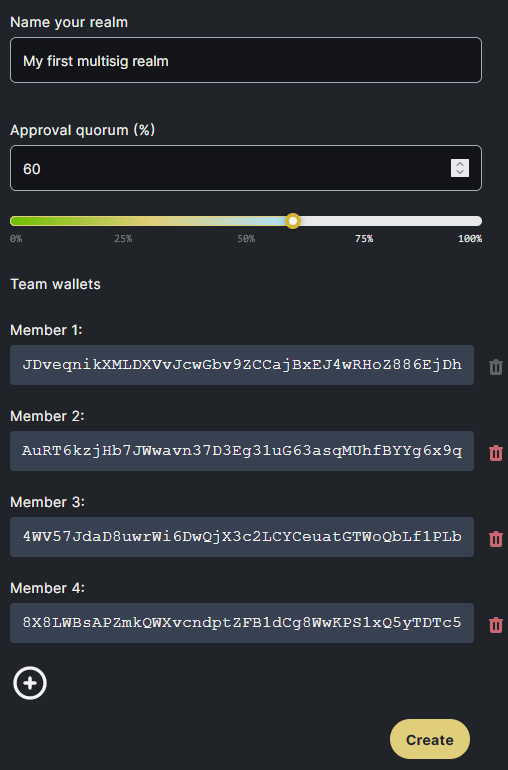
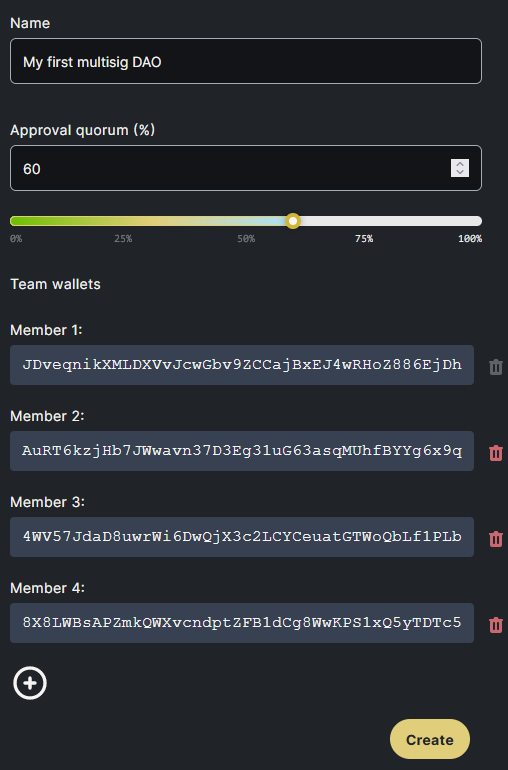
Updated images and texts to the new bespoke wizard (#9)
* fix: updated images and texts to the new bespoke wizard

* fix: docusaurus github references

Changed region(s): [[0.0295, 0.0, 0.3248, 0.0935]]

diff --git a/docusaurus.config.js b/docusaurus.config.js
@@ -6,15 +6,15 @@ const darkCodeTheme = require("prism-react-renderer/themes/dracula");
 
 /** @type {import('@docusaurus/types').Config} */
 const config = {
-  title: "My Site",
-  tagline: "Dinosaurs are cool",
-  url: "https://your-docusaurus-test-site.com",
+  title: "Solana Governance UI Docs",
+  tagline: "Solana GOvernance UI Documentation",
+  url: "https://docs.realms.today",
   baseUrl: "/",
   onBrokenLinks: "throw",
   onBrokenMarkdownLinks: "warn",
   favicon: "img/favicon.ico",
-  organizationName: "facebook", // Usually your GitHub org/user name.
-  projectName: "docusaurus", // Usually your repo name.
+  organizationName: "Solana-labs", // Usually your GitHub org/user name.
+  projectName: "governance-docs", // Usually your repo name.
 
   presets: [
     [
@@ -25,7 +25,7 @@ const config = {
           sidebarPath: require.resolve("./sidebars.js"),
           routeBasePath: "/",
           editUrl:
-            "https://github.com/solana-labs/governance-ui/edit/main/docs/",
+            "https://github.com/solana-labs/governance-docs/tree/master",
         },
         theme: {
           customCss: require.resolve("./src/css/custom.css"),
@@ -51,7 +51,7 @@ const config = {
             label: "Tutorial",
           },
           {
-            href: "https://github.com/solana-labs/governance-ui",
+            href: "https://github.com/solana-labs/governance-docs/",
             label: "GitHub",
             position: "right",
           },

diff --git a/docs/multisig-DAO/create-multisig-DAO/bespoke-DAO.md b/docs/multisig-DAO/create-multisig-DAO/bespoke-DAO.md
@@ -23,10 +23,13 @@ In the first step, you'll need to fill the basic configuration for your DAO
 ![multisigbespoke](/img/multisig-DAO/multisig-bespoke-empty.png)
 
 1. **Name your DAO:** Choose the name for your DAO but bear in mind that if you choose a name that already exists, the transaction will fail.
-2. **Place the `Community Token Mint`** and note that some more fields will appear in the screen.
 
-   1. **Min community tokens to create governance:** this field represents that to create a governance, there should be at least `N%` of the max supply of the tokens minted, being 1% the default value.
-   2. **Community mint supply factor:** the max vote weight of the community token. If it is set to 1 then total supply of the community governance token equals to 100% vote.
+2. **Place the `Community Token Mint`** if you have one, and if not, it will be generated for you. The community token mint is the token that will be used by the community to vote on proposals and it is required to create a governance.
+    1. When you put the community token mint, a switch `Transfer Authority` will show up. If checked, it will transfer the authority of the community token to the realm.
+
+3. **Min community tokens to create governance:** this field represents that to create a governance, there should be at least `N%` of the max supply of the tokens minted, being 1% the default value for tokens with supply bigger than 0. If the supply is 0, then this value will be set to `1000000` by default.
+
+4. **Community mint supply factor:** the max vote weight of the community token. If it is set to 1 then total supply of the community governance token equals to 100% vote. This value can vary from `0.0000000001` to `1`.
 
 :::tip
 If you don't fill this field, the community token will be generated by the app
@@ -34,7 +37,7 @@ If you don't fill this field, the community token will be generated by the app
 
 ![multisigbespokecomm](/img/multisig-DAO/multisig-bespoke-community.png)
 
-4.**The `Governance Program Id`** field represents the Governance Program of the organization. If a DAO wants full control of their DAOs, they should deploy their own governance program. But to facilitate, Solana provides a default Governance program ID `GovER5Lthms3bLBqWub97yVrMmEogzX7xNjdXpPPCVZw` so, if you don't want to deploy a governance program now, it is possible to use this instance.
+5.**The `Governance Program Id`** field represents the Governance Program of the organization. If a DAO wants full control of their DAOs, they should deploy their own governance program. But to facilitate, Solana provides a default Governance program ID `GovER5Lthms3bLBqWub97yVrMmEogzX7xNjdXpPPCVZw` so, if you don't want to deploy a governance program now, it is possible to use this instance.
 
 :::tip
 Checking `Use Test Instance` will change the program id to `GTesTBiEWE32WHXXE2S4XbZvA5CrEc4xs6ZgRe895dP` and run in a test program instead of the main program id. This is recommended if you are deploying a testing DAO.
@@ -42,11 +45,11 @@ Checking `Use Test Instance` will change the program id to `GTesTBiEWE32WHXXE2S4
 
 ![multisigbespokegov](/img/multisig-DAO/multisig-bespoke-govtoken.png)
 
-5. **Lastly, the `Governance program version`** that represents the version of the governance program. If you're using the default instance then at the time of writing the version of the deployed program is 1.
+6. **Lastly, the `Governance program version`** that represents the version of the governance program. If you're using the default instance then at the time of writing the version of the deployed program is 1.
 
 ![multisigbespokeversion](/img/multisig-DAO/multisig-bespoke-programversion.png)
 
-6. **Click next to proceed to the [next step](#step-2)**.
+7. **Click next to proceed to the [next step](#step-2-the-council)**.
 
 ---
 
@@ -62,15 +65,14 @@ This step is optional, you don't need council mint to create a bespoke DAO but i
 
 ![multisigbespokecomm](/img/multisig-DAO/multisig-bespoke-council.png)
 
-2. **Click next to proceed to the [next step](#step-3)**.
+2. **Click next to proceed to the [next step](#step-3-the-summary)**.
 
 ### Step 3: The Summary
 
-The third step will show a summary of all the data you have put in the form. Check to see if everything is alright 
+The third step will show a summary of all the data you have put in the form. Check to see if everything is alright
 
 ![multisigbespokecomm](/img/multisig-DAO/multisig-bespoke-summary.png)
 
+**Click create, sign the transactions**, and when all transactions are finished, you'll be redirected to the DAO's page.
 
-**Click create, sign the transactions** and then you'll be redirected to the DAO's page.
-
-![multisigbespokeDAOspage](/img/multisig-DAO/multisig-bespoke-DAOs-page.png)
+<!-- ![multisigbespokeDAOspage](/img/multisig-DAO/multisig-bespoke-DAOs-page.png) -->

diff --git a/docs/multisig-DAO/create-multisig-DAO/DAO-wizard.md b/docs/multisig-DAO/create-multisig-DAO/DAO-wizard.md
@@ -8,10 +8,10 @@ You have two ways to create a multisig DAO, the simple and the advanced. The sim
 
 ### Before starting
 
-The first thing to do is to go to the [Official GUI](https://DAOs.today) and be sure that you have [Phantom](https://phantom.app/) installed on your browser.
+The first thing to do is to go to the [Official GUI](https://realms.today) and be sure that you have [Phantom](https://phantom.app/) installed on your browser.
 After this step, you need to choose if you want to use the `devnet` or the `mainnet`. Unfortunately, the Phantom wallet doesn't allow us to sync the networks yet, so you'll need to do it manually. If you want to use the `devnet`, add `?cluster=devnet` to the url.
 
-> So the url becomes: `https://DAOs.today?cluster=devnet`.
+> So the url becomes: `https://realms.today?cluster=devnet`.
 
 For `mainnet`, you don't need to do any change the url.
 
@@ -19,13 +19,11 @@ From the main screen, click `Create DAO` button
 
 ![createDAObtn](/img/multisig-DAO/create-DAO-btn.png)
 
-
 Then, your wallet will pop up asking to connect to the app. Click connect and you'll be redirected to the DAO Wizard page.
 
 ![connectwallet](/img/multisig-DAO/connect-wallet.png)
 
-
-The DAO Wizard is a feature to help you with the setup of your DAO. It will guide you through the necessary steps to create a new DAO. 
+The DAO Wizard is a feature to help you with the setup of your DAO. It will guide you through the necessary steps to create a new DAO.
 In the wizard page, it's possible to choose between two options:
 
 1. Create a Multisig DAO and

diff --git a/docs/multisig-DAO/create-multisig-DAO/multisig-DAO.md b/docs/multisig-DAO/create-multisig-DAO/multisig-DAO.md
@@ -20,6 +20,10 @@ So, let's create a multisig DAO together.
 
 ![multisiformempty](/img/multisig-DAO/multisig-form-empty.png)
 
+:::tip
+Checking `Create a test DAO` will make your DAO be linked to a test Program ID instead of the default one.
+:::
+
 2. **Name your DAO**
 
 ![multisigformname](/img/multisig-DAO/multisig-name.png)
